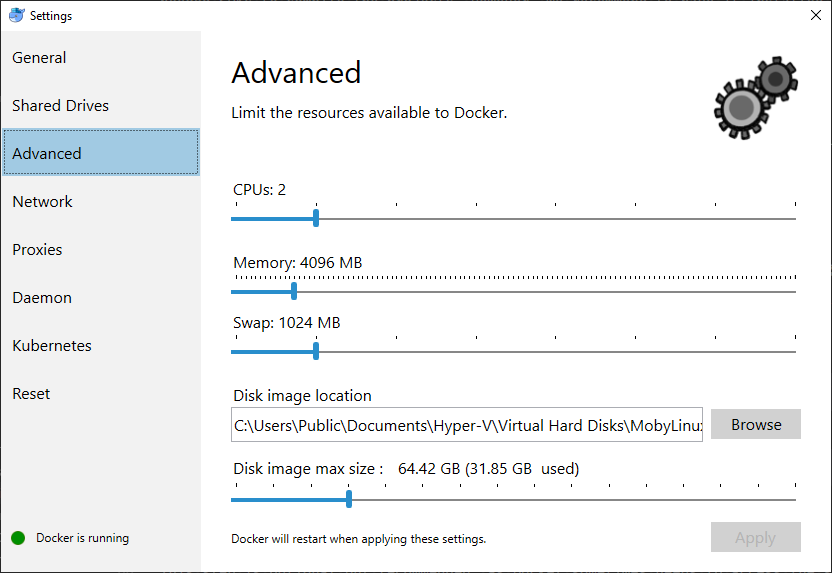
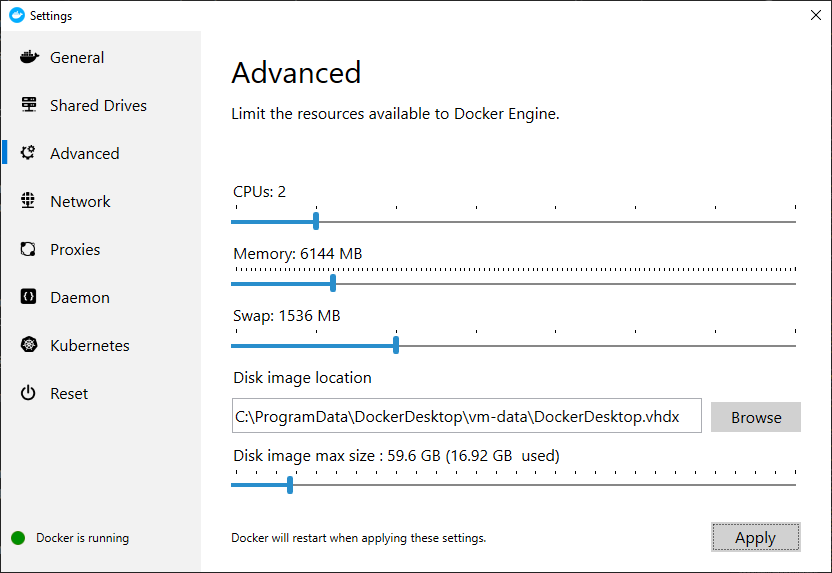
Update windows setup for memory requirements and Docker 2.2 networking issue,

diff --git a/Windows-setup.md b/Windows-setup.md
@@ -12,6 +12,7 @@ The approach followed is to have the app running from the CLI first, since it's 
   - [Memory and CPU](#memory-and-cpu)
   - [Shared drives](#shared-drives)
 - [Configure local networking](#configure-local-networking)
+- [WARNING on Docker Desktop 2.2.0.0!](#warning-on-docker-desktop-2200)
 - [Build and deploy eShopOnContainers](#build-and-deploy-eshoponcontainers)
   - [1. Create a folder for your repositories](#1-create-a-folder-for-your-repositories)
   - [2. Clone eShopOnContainer's GitHub repo](#2-clone-eshoponcontainers-github-repo)
@@ -29,7 +30,6 @@ The approach followed is to have the app running from the CLI first, since it's 
   - [Issue with "Visual Studio 2017 Tools for Docker" and network proxies/firewalls](#issue-with-%22visual-studio-2017-tools-for-docker%22-and-network-proxiesfirewalls)
 - [Optional - Use Visual Studio Code](#optional---use-visual-studio-code)
 - [Explore the code](#explore-the-code)
-- [Low memory configuration](#low-memory-configuration)
 - [Additional resources](#additional-resources)
 
 ## Configure Docker
@@ -44,11 +44,12 @@ So it's important to configure enough memory RAM and CPU to Docker.
 
 Once Docker for Windows is installed, go to the **Settings > Advanced** option, from the Docker icon in the system tray, to configure the minimum amount of memory and CPU like so:
 
-- Memory: 4096 MB
+- Memory: 6144 MB
 - CPU: 2
 
-This amount of memory is the absolute minimum to have the app running, and that's why you need a 16GB RAM machine for optimal configuration.
+This amount of memory is the recommended minimum to run the app, and that's why you need a 16GB RAM machine for optimal configuration.
 
+![]
 ![](images/Docker-setup/eshoponcontainers-docker-configuration-memory-cpu.png)
 
 [What can I do if my computer has only 8 GB RAM?](#low-memory-configuration)
@@ -79,6 +80,14 @@ If you are working within a corporate VPN you might need to run this power shell
 Get-NetConnectionProfile | Where-Object { $_.InterfaceAlias -match "(DockerNAT)" } | ForEach-Object { Set-NetConnectionProfile -InterfaceIndex $_.InterfaceIndex -NetworkCategory Private }
 ```
 Or just run the **set-dockernat-networkategory-to-private.ps1** script available in the solution's **deploy/windows** folder.
+
+## WARNING on Docker Desktop 2.2.0.0!
+
+> **Docker Desktop 2.2.0.0 doesn't use `DokerNAT` so the above solution will not work.**
+>
+>**According to [issue 5538 in the Docker Desktop for Windows repo](https://github.com/docker/for-win/issues/5538) this was by-design.**
+>
+>**While it gets solved or a workaround devised, it's recommended that you use the `WebSPA` client.**
 
 ## Build and deploy eShopOnContainers
 
@@ -257,24 +266,6 @@ It is also recommended to install the C# extension and the Docker extension for 
 ## Explore the code
 
 You should be now ready to begin learning by [exploring the code](Explore-the-code) and debugging eShopOnContainers.
-
-## Low memory configuration
-
-If your computer has only 8 GB RAM, you **might** still get eShopOnContainers up and running, but it's not sure and you will not be able to run Visual Studio. You might be able to run VS Code and you'll be limited to the CLI. You might even need to run Chromium or any other bare browser, Chrome will most probably not do. You'll also need to close any other program running in your machine.
-
-The easiest way to get Chromium binaries directly from Google is to install the [node-chromium package](https://www.npmjs.com/package/chromium) in a folder and then look for the `chrome.exe` program, as follows:
-
-1. Install node.
-
-2. Create a folder wherever best suits you.
-
-3. Run `npm install --save chromium`
-
-4. After installation finishes go to folder `node_modules\chromium\lib\chromium\chrome-win` (in Windows) to find `chrome.exe`
-
-The installation process should look something like this:
-
-![](images/Windows-setup/install-chromium-browser.png)
 
 ## Additional resources
 
